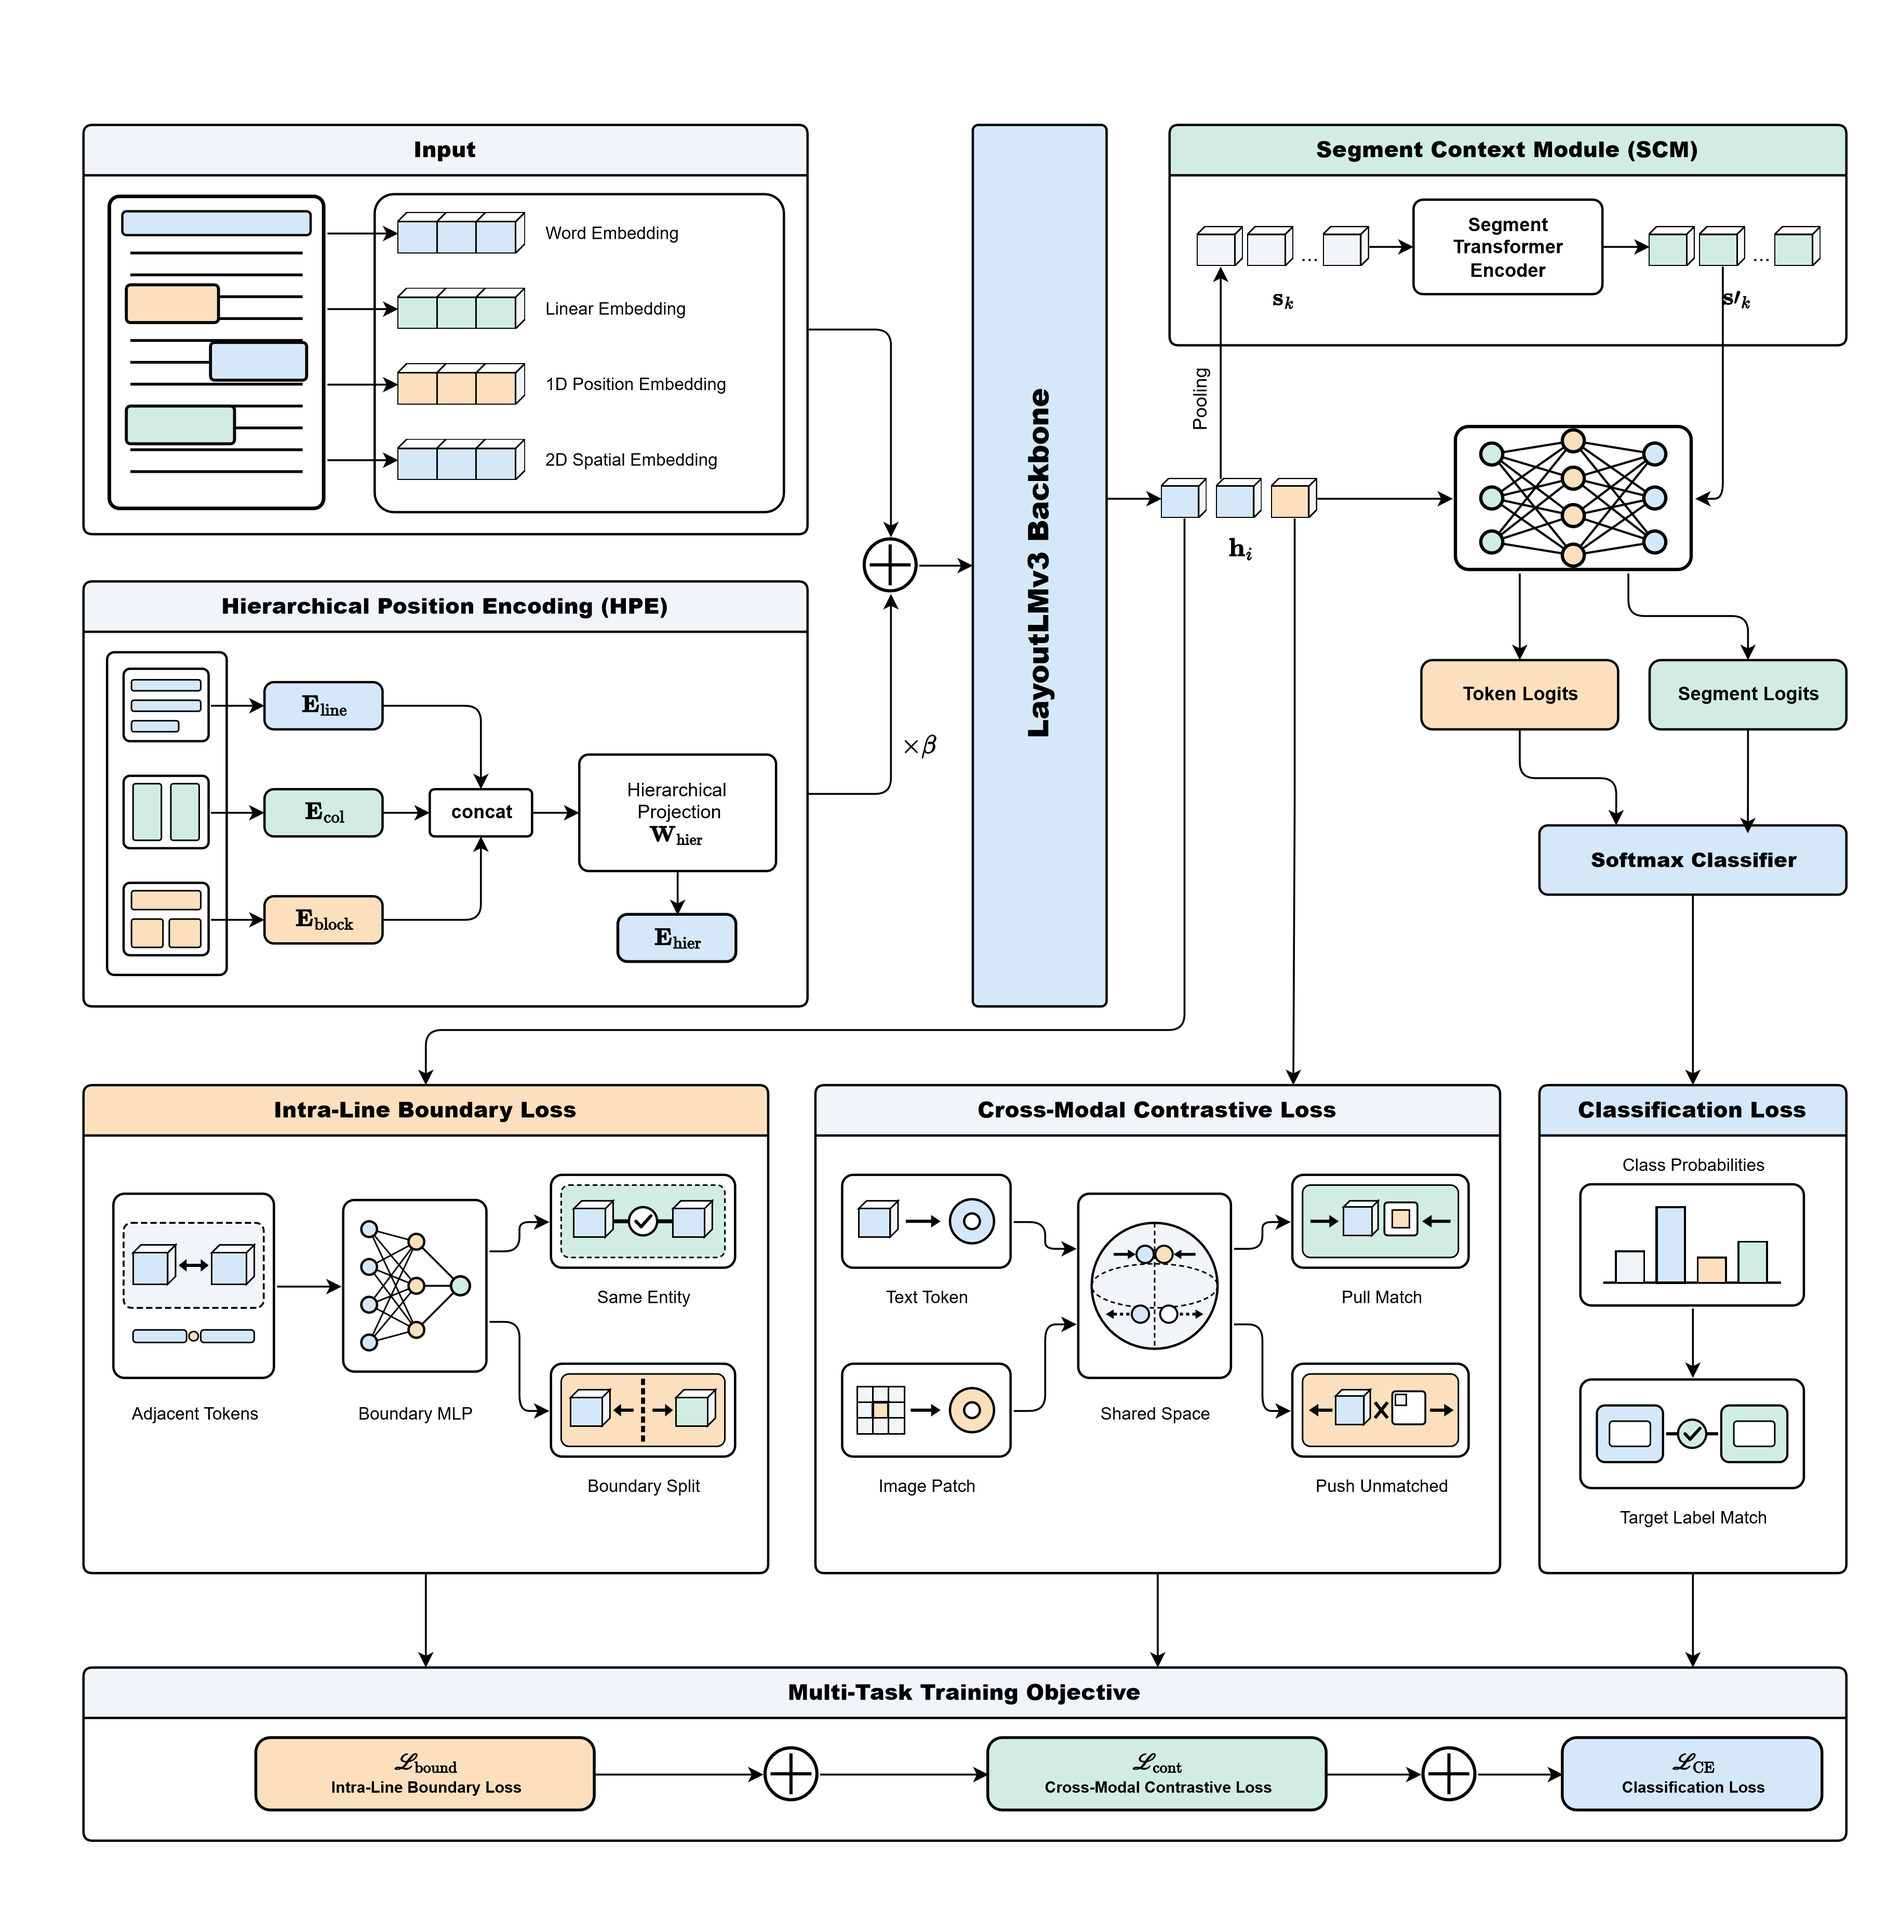
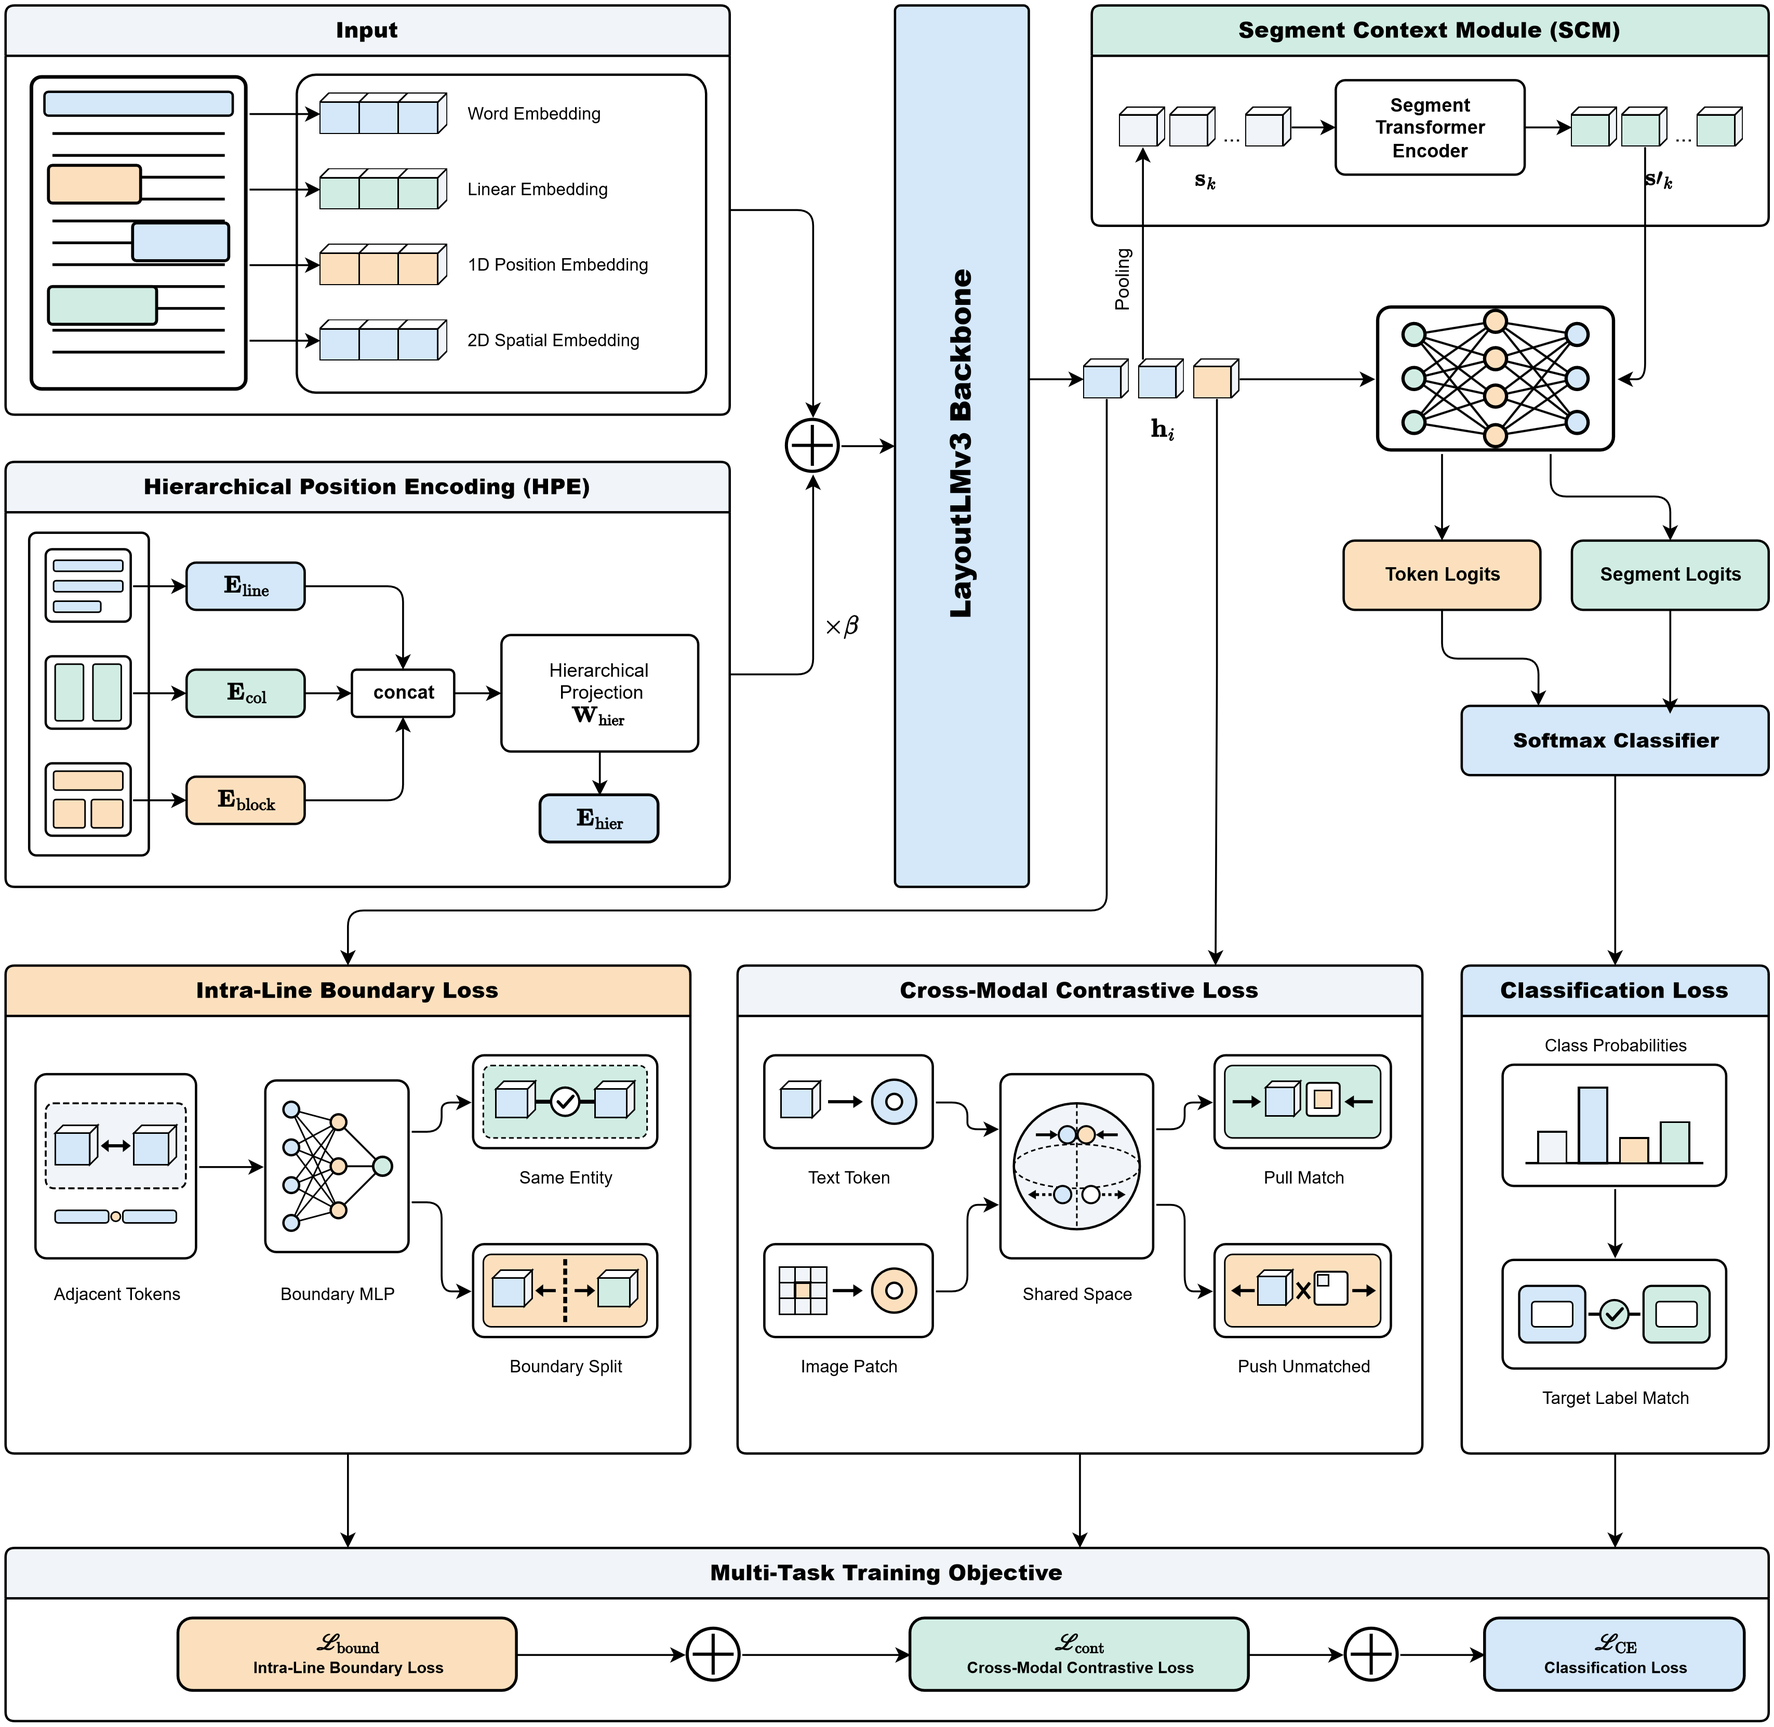
style(presentation): dedicate slide 2 entirely to model diagram with plain layout

Changed region(s): [[0.0, 0.0, 1.0, 0.5266], [0.0, 0.5266, 1.0, 1.0]]

diff --git a/thesis/presentation/weekly_update_slides.tex b/thesis/presentation/weekly_update_slides.tex
@@ -108,17 +108,14 @@
 \end{frame}
 
 % ============================================================================
-% SLIDE 2: FULL END-TO-END MODEL ARCHITECTURE (ONLY DIAGRAM, SCALED UP)
+% SLIDE 2: FULL END-TO-END MODEL ARCHITECTURE (FULL SLIDE RESERVED)
 % ============================================================================
-\begin{frame}{Structure-Aware LayoutLMv3 Architecture}
-  \vspace{-0.15cm}
-  \begin{center}
-    \begin{tikzpicture}
-      \node[draw=BorderGray, fill=white, rounded corners=6pt, line width=0.8pt, inner sep=3pt] {
-        \includegraphics[width=0.95\textwidth,height=0.78\textheight,keepaspectratio]{images/model_architecture_full.png}
-      };
-    \end{tikzpicture}
-  \end{center}
+\begin{frame}[plain]
+  \begin{tikzpicture}[remember picture, overlay]
+    \node[at=(current page.center)] {
+      \includegraphics[width=\paperwidth,height=0.97\paperheight,keepaspectratio]{images/model_architecture_full.png}
+    };
+  \end{tikzpicture}
 \end{frame}
 
 % ============================================================================
